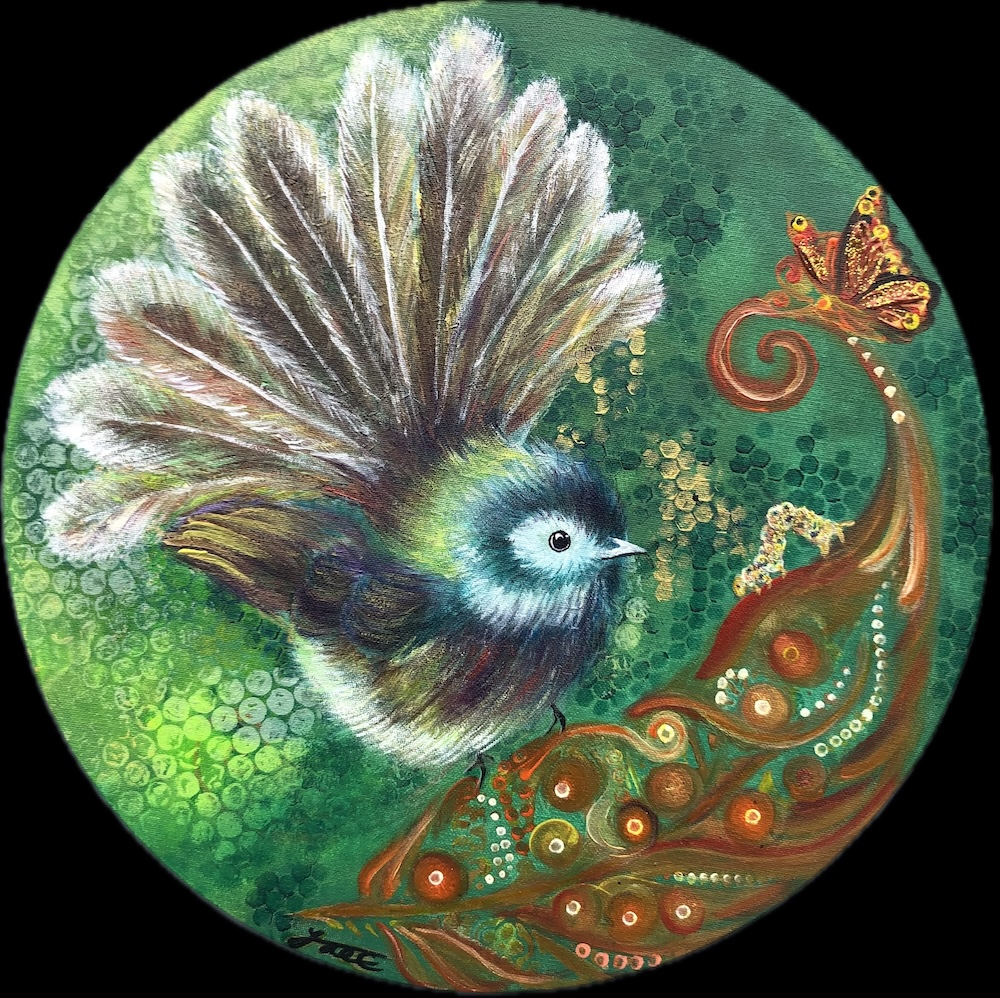
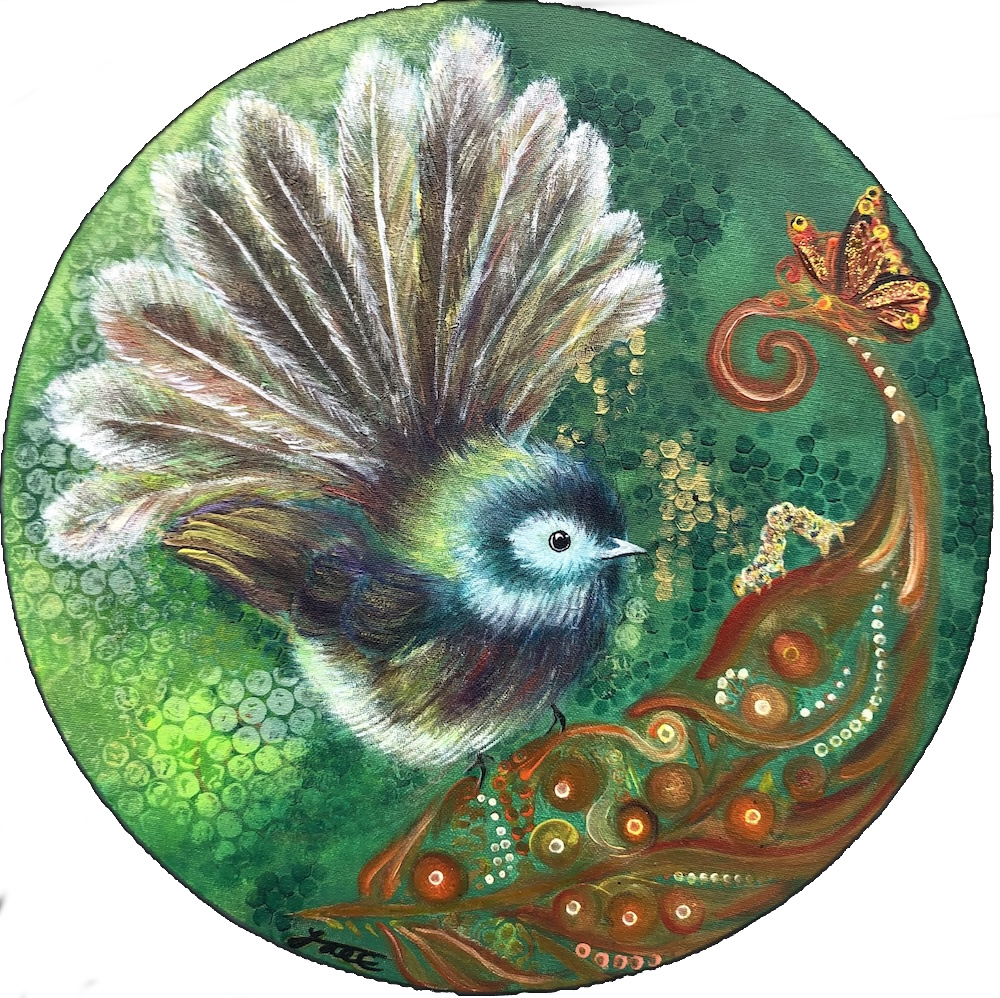
Aggiunto nuovo contenuto e modifiche

Changed region(s): [[0.0, 0.0, 1.0, 1.0], [0.0, 0.0, 0.434, 0.4349]]

diff --git a/gallery.html b/gallery.html
@@ -242,7 +242,7 @@
                 </div>
 
                 <div class="artwork acrylic">
-                    <img src="Opere/opera13.jpg" alt="Opera 7">
+                    <img src="Opere/opera13.jpg" alt="Opera 7" style="background-color: #fff;">
                 <div class="info">
                     <h3>Opera 7</h3>
                     <p>Painting style , dimensions & price $</p>
